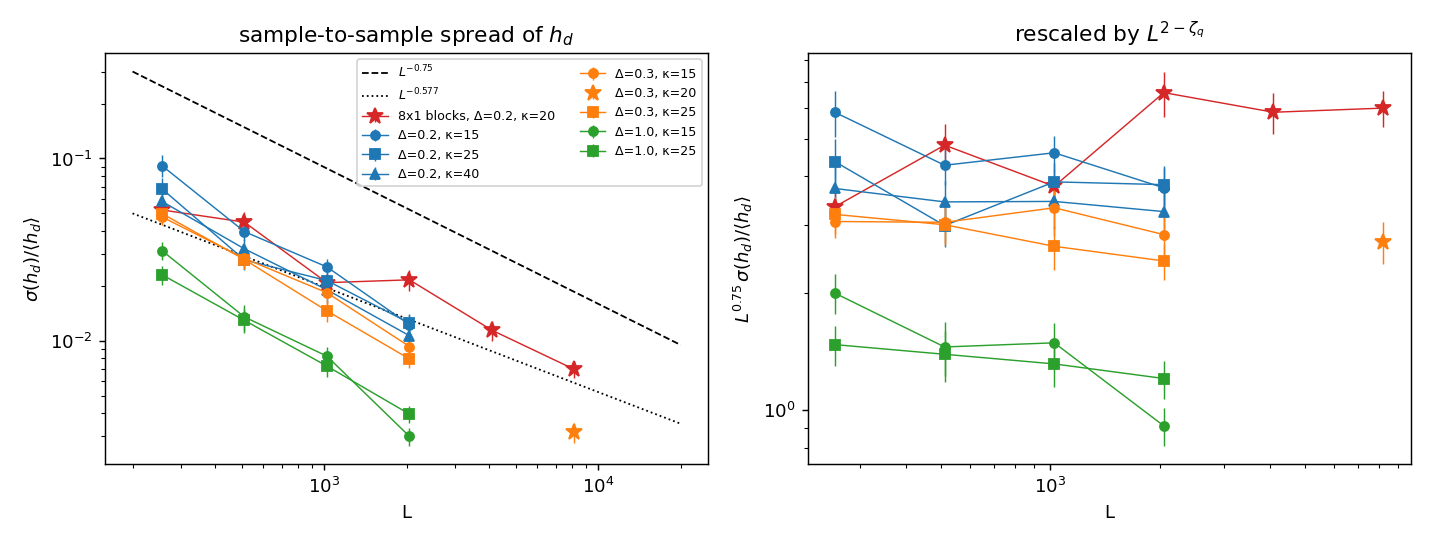
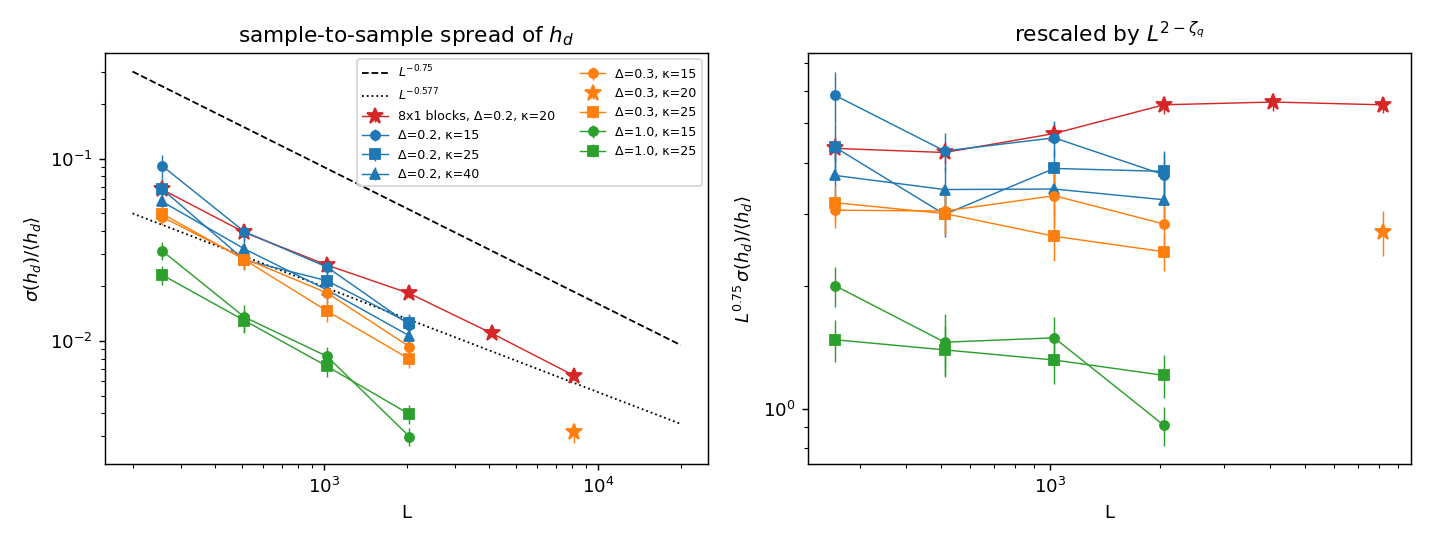
5.9: threshold scaling with 200 seeds per L gives 1/nu = 0.685
Shift and spread of h_d for the weak 8x1 walls, 200 seeds at every L
(256-8192): sigma gives 0.685 +- 0.020, the shift 0.686 (0.63-0.74), and
a joint fit 0.685 +- 0.018, 6 sigma from qKPZ and 3.5 sigma from qEW.
The earlier 0.606 +- 0.040 (30-50 seeds) was noise. The box does not
explain it (kappa_eff ~ 20, d ln sigma/d ln kappa = -0.16), the bias is
the extreme-value one of Kolton et al. 2013, and the KPZ slope term
(Krug-Meakin) is small. The wall geometry stays qKPZ; the threshold
scaling does not follow at these L.

Claude-Session: https://claude.ai/code/session_01PGny5KFBezv3NkS3orLgpj

diff --git a/scripts/hd_variance.py b/scripts/hd_variance.py
@@ -4,7 +4,7 @@ For qEW depinning in 1+1, sigma(h_d) ~ L^(-1/nu) with 1/nu = 2 - zeta = 0.75
 (zeta_q = 1.25), if the box keeps the finite-size regime fixed (kappa fixed).
 Reads data/kappa/L*_D*_kap* (kappa 15/25/40, tol 1e-4) and the kappa=20
 production data/prod_kappa20/L*_D* (tol 1e-5), both isotropic disorder, and
-the weak 8x1 block disorder run data/aniso_weak/merged/ax8ay1_L*_D0.2_m0
+the weak 8x1 block disorder runs data/aniso_weak/merged_hd/ax8ay1_L*_D0.2_m0 (200 seeds)
 (kappa=20, tol 1e-5; docs/plans/aniso_weak_qkpz.md), for which the qKPZ
 class predicts 1/nu = 0.577. Also: local slopes of sigma between successive
 L, and the threshold shift <h_d>(L) = h_inf + A L^(-1/nu).
@@ -52,7 +52,7 @@ for d in glob.glob('data/prod_kappa20/L*_D*'):
     if m:
         L, D = int(m.group(1)), float(m.group(2))
         sets.append(('iso', D, 20, L, d, step(*prod_bracket[D], 1e-5)))
-for d in glob.glob('data/aniso_weak/merged/ax8ay1_L*_D0.2_m0'):  # data/aniso_weak/prod/run.sh
+for d in glob.glob('data/aniso_weak/merged_hd/ax8ay1_L*_D0.2_m0'):  # data/aniso_weak/{prod,seeds}/run.sh
     sets.append(('8x1', 0.2, 20, int(re.search(r'_L(\d+)_', d).group(1)), d, step(0.012, 0.026, 1e-5)))
 
 rows = []

diff --git a/docs/analysis_math.md b/docs/analysis_math.md
@@ -764,7 +764,7 @@ recalibrated from their width: qKPZ predicts the local exponent to cross
 over from 1.25 to about 0.63 above a length set by $\lambda$. That test is
 §5.9.
 
-### 5.9 Weak block disorder: the qKPZ class
+### 5.9 Weak block disorder: qKPZ geometry
 
 Plan in `docs/plans/aniso_weak_qkpz.md`; figures in `results/aniso_weak/`.
 §5.8 found $\lambda>0$ for blocks elongated along the wall, but at
@@ -800,32 +800,59 @@ $s\in\{0,\pm0.05,\pm0.1,\pm0.2,\pm0.3\}$, 30 seeds. Analysis:
 or a bubble** (arc length $\approx 1.02\,L$), so $u(x)$ is single-valued
 and the global $S(q)$ is usable, unlike the isotropic case.
 
-**Spread of $h_d$** (`results/aniso_weak/hd_variance/`, red stars in the
-figure; method of §5.7):
+**Spread and shift of $h_d$** (`results/aniso_weak/hd_variance/`; method
+of §5.7). 200 seeds per $L$: the production seeds plus
+`data/aniso_weak/seeds/` (same boxes, no field dumps), merged in
+`data/aniso_weak/merged_hd/`.
 
 | $L$ | 256 | 512 | 1024 | 2048 | 4096 | 8192 |
 |---|---|---|---|---|---|---|
-| $`\langle h_d\rangle`$ | 0.01988 | 0.01932 | 0.01860 | 0.01841 | 0.01821 | 0.01811 |
-| $`\sigma/\langle h_d\rangle`$ | 5.2 % | 4.5 % | 2.1 % | 2.2 % | 1.1 % | 0.70 % |
+| $`\langle h_d\rangle`$ | 0.01994 | 0.01910 | 0.01866 | 0.01839 | 0.01822 | 0.01810 |
+| $`\sigma/\langle h_d\rangle`$ | 6.8 % | 3.9 % | 2.6 % | 1.8 % | 1.1 % | 0.64 % |
 
 ![h_d spread vs L, with 8x1 blocks](../results/aniso_weak/hd_variance/hd_variance.png)
 
-| slope | $\chi^2$ (5 dof) |
-|---|---|
-| 0.75 (qEW) | 22.8 |
-| 0.577 (qKPZ) | 10.2 |
-| free: $1/\nu = 0.606\pm0.040$ | 9.7 (4 dof) |
+![shift and spread of h_d, separately](../results/aniso_weak/hd_variance/shift_sigma.png)
 
-The free slope is $0.7\sigma$ from qKPZ and $3.6\sigma$ from qEW; the
-isotropic data give $0.88\pm0.03$ with the same machinery. The local slopes
-between successive $L$ scatter (from $-0.04$ to 1.16, each ±0.25), so the
-$\chi^2$ excess is point-to-point noise, not curvature. In the right panel
-the 8×1 points rise relative to $L^{-0.75}$, while the isotropic ones stay
-flat or fall. The threshold shift
-$`\langle h_d\rangle = h_\infty + A\,L^{-x}`$ gives $x = 0.76$
-(0.66–0.86 at $\Delta\chi^2=1$), $`h_\infty = 0.01796`$; with $x$ fixed
-at 0.577 the fit is acceptable too ($\chi^2 = 6.8/4$, $`h_\infty=0.01783`$).
-The shift therefore does not discriminate between the classes.
+Fits (`data/aniso_weak/kappa_sens/joint_fit.py`), $\sigma\sim L^{-x}$,
+$`\langle h_d\rangle = h_\infty + A\,L^{-x}`$, and both with one $x$:
+
+| | free $x$ | $\chi^2$, $x=0.577$ (qKPZ) | $\chi^2$, $x=0.75$ (qEW) |
+|---|---|---|---|
+| $\sigma$ | $0.685\pm0.020$ ($\chi^2$ 4.8/4) | 34.4/5 | 16.5/5 |
+| shift | 0.686 (0.63–0.74) ($\chi^2$ 2.3/3) | 6.3/4 | 3.7/4 |
+| joint, all $L$ | $0.685\pm0.018$ ($\chi^2$ 7.0/8) | 40.7/9 | 20.2/9 |
+| joint, $L\ge1024$ | $0.690\pm0.031$ ($\chi^2$ 4.2/4) | 17.1/5 | 7.9/5 |
+
+With 30–50 seeds per $L$ the spread gave $0.606\pm0.040$; that was noise.
+The slopes between successive $L$ are 0.85, 0.63, 0.54, 0.74, 0.78
+(±0.10–0.14). The isotropic data give $0.88\pm0.03$ with the same
+machinery.
+
+- **The box does not explain it.** The real $\kappa_{\rm eff} = P/\langle w\rangle$,
+  with $w$ from the production fields, is 19.6, 18.4, 20.3, 20.0, 21.4, 24.9
+  for $L=256$–8192, and at $L=2048$
+  $d\ln\sigma/d\ln\kappa = -0.16\pm0.13$ ($\kappa = 10$, 20, 40). Correcting
+  $\sigma$ to $\kappa=20$ gives $0.671\pm0.021$
+  (`data/aniso_weak/kappa_sens/analyze.py`).
+- **The bias is the extreme-value one.** At $\kappa\gg\kappa^*$ the threshold
+  is approached from above with an amplitude growing like $(\ln\kappa)^{1/\delta}$
+  and the same exponent as $\sigma$ (Kolton, Bustingorry, Ferrero, Rosso,
+  J. Stat. Mech. (2013), arXiv:1308.4329): here $A>0$, the shift between
+  $L=256$ and 2048 is $6.3\times10^{-4}$, $1.5\times10^{-3}$, $1.8\times10^{-3}$
+  at $\kappa = 10$, 20, 40, and shift and spread give the same $x$.
+- **The KPZ slope term is small.** With $\lambda>0$ the long modes missing at
+  small $L$ would raise $h_d$ by $(\lambda/2)\Delta\langle(\nabla u)^2\rangle$, a
+  bias $\propto L^{-(2-2\zeta)}$ (Krug, Meakin, J. Phys. A **23**, L987 (1990),
+  for the velocity). Measured on the critical walls
+  (`data/aniso_weak/kappa_sens/slope_bias.py`), it predicts 4–8 times less
+  than the observed shift, and per sample $dh_d/d\langle(\nabla u)^2_{l\ge64}\rangle
+  \approx -0.01\pm0.01$ instead of $-\lambda/2\approx-0.13$ ($|r|\le0.25$).
+  It does not contaminate $\sigma$.
+
+So the threshold scales with $1/\nu = 0.685\pm0.02$ at $L\le8192$, between
+qKPZ (0.577, $6\sigma$) and qEW (0.75, $3.5\sigma$), while the geometry of
+the wall below is that of qKPZ.
 
 **Roughness** (`results/aniso_weak/prod_roughness/`, estimators and bias
 of §5.6):
@@ -903,16 +930,19 @@ the curvature at $s=0$, which is why it overshoots 1 there. $\lambda$
 neither grows nor saturates with $L$ visibly: it is $L$-independent
 within the errors.
 
-**Conclusion.** With weak disorder correlated along the wall, four
-independent observables agree with the qKPZ (directed-percolation)
-depinning class and not with qEW: $\zeta_W = 0.62$–0.67 over more than a
-decade of $l$; $S(q)\propto q^{-2.27}$; $1/\nu = 0.61\pm0.04$; and a
-finite, $L$-independent $\lambda>0$. The crossover from the Larkin
-regime happens at $\ell_\times\approx 35$–40, much shorter than the
-overhang length of the isotropic walls at this $\Delta$, and no overhangs
-form. In the isotropic medium the same observables give qEW (§5.6–5.8):
-the class is selected by the anisotropy of the disorder, not by the
-$\phi^4$ model.
+**Conclusion.** With weak disorder correlated along the wall, the
+geometry of the critical wall is that of the qKPZ (directed-percolation)
+class and not qEW: $\zeta_W = 0.62$–0.67 over more than a decade of $l$,
+$S(q)\propto q^{-2.27}$, and a finite, $L$-independent $\lambda>0$. The
+crossover from the Larkin regime happens at $\ell_\times\approx 35$–40,
+much shorter than the overhang length of the isotropic walls at this
+$\Delta$, and no overhangs form. In the isotropic medium the same
+observables give qEW (§5.6–5.8): the anisotropy of the disorder selects
+the class, not the $\phi^4$ model. The finite-size scaling of the
+threshold does not follow: shift and spread of $h_d$ both give
+$1/\nu = 0.685\pm0.02$, far from 0.577. Open: whether this is a
+pre-asymptotic value (the $\zeta_W$ plateau only starts at $l\approx300$)
+or the threshold statistics are set at shorter scales than the geometry.
 
 ## 6. Two-crossover model for $\zeta_W(l)$
 
